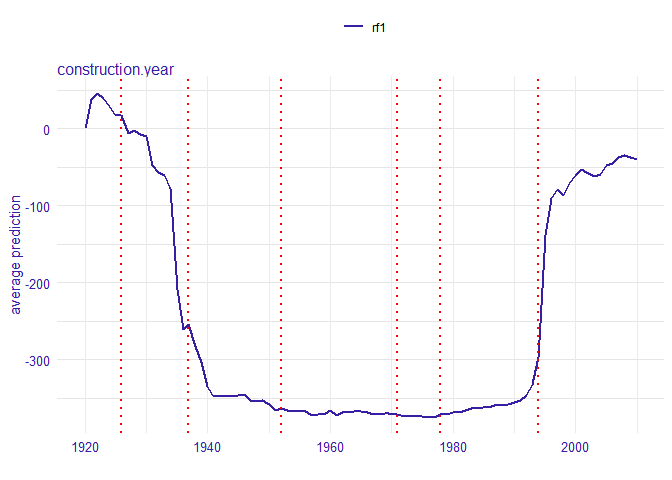
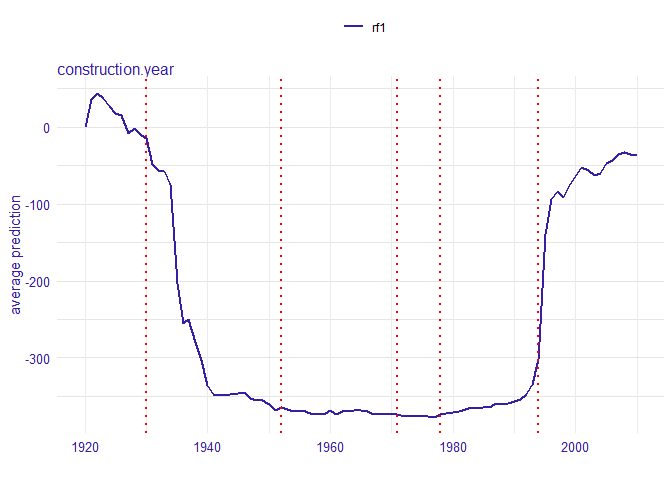
adding examples

diff --git a/README.md b/README.md
@@ -67,7 +67,7 @@ Creating a safe\_extractor
 Now, we create a `safe_extractor` object using `SAFE` package and our surrogate model. Setting the argument `verbose=FALSE` stops progress bar from printing.
 
 ``` r
-safe_extractor <- safe_extraction(explainer_rf1, collapse = "_", verbose = FALSE)
+safe_extractor <- safe_extraction(explainer_rf1, verbose = FALSE)
 ```
 
 Now, let's print summary for the new object we have just created.
@@ -75,19 +75,18 @@ Now, let's print summary for the new object we have just created.
 ``` r
 print(safe_extractor)
 #> Variable 'construction.year' - selected intervals:
-#>  (-Inf, 1926]
-#>      (1926, 1936.82]
-#>      (1936.82, 1952]
+#>  (-Inf, 1930]
+#>      (1930, 1952]
 #>      (1952, 1971]
 #>      (1971, 1978]
 #>      (1978, 1994]
 #>      (1994, Inf)
 #> Variable 'surface' - selected intervals:
 #>  (-Inf, 28]
-#>      (28, 44]
-#>      (44, 72]
-#>      (72, 101]
-#>      (101, 129]
+#>      (28, 40]
+#>      (40, 72]
+#>      (72, 98]
+#>      (98, 129]
 #>      (129, Inf)
 #> Variable 'floor' - selected intervals:
 #>  (-Inf, 4]
@@ -131,11 +130,11 @@ data1 <- safely_transform_data(safe_extractor, apartmentsTest[3001:6000,], verbo
 | district    |  m2.price|  construction.year|  surface|  floor|  no.rooms| construction.year\_new | surface\_new | floor\_new | no.rooms\_new | district\_new                                |
 |:------------|---------:|------------------:|--------:|------:|---------:|:-----------------------|:-------------|:-----------|:--------------|:---------------------------------------------|
 | Bielany     |      3542|               1979|       21|      6|         1| (1978, 1994\]          | (-Inf, 28\]  | (4, Inf)   | (-Inf, 3\]    | Bemowo\_Bielany\_Praga\_Ursus\_Ursynow\_Wola |
-| Srodmiescie |      5631|               1997|      107|      2|         4| (1994, Inf)            | (101, 129\]  | (-Inf, 4\] | (3, Inf)      | Srodmiescie                                  |
-| Bielany     |      2989|               1994|       41|      9|         2| (1978, 1994\]          | (28, 44\]    | (4, Inf)   | (-Inf, 3\]    | Bemowo\_Bielany\_Praga\_Ursus\_Ursynow\_Wola |
+| Srodmiescie |      5631|               1997|      107|      2|         4| (1994, Inf)            | (98, 129\]   | (-Inf, 4\] | (3, Inf)      | Srodmiescie                                  |
+| Bielany     |      2989|               1994|       41|      9|         2| (1978, 1994\]          | (40, 72\]    | (4, Inf)   | (-Inf, 3\]    | Bemowo\_Bielany\_Praga\_Ursus\_Ursynow\_Wola |
 | Ursynow     |      3822|               1968|       28|      2|         2| (1952, 1971\]          | (-Inf, 28\]  | (-Inf, 4\] | (-Inf, 3\]    | Bemowo\_Bielany\_Praga\_Ursus\_Ursynow\_Wola |
 | Ursynow     |      2337|               1971|      146|      3|         6| (1952, 1971\]          | (129, Inf)   | (-Inf, 4\] | (3, Inf)      | Bemowo\_Bielany\_Praga\_Ursus\_Ursynow\_Wola |
-| Ochota      |      3381|               1956|       97|      8|         3| (1952, 1971\]          | (72, 101\]   | (4, Inf)   | (-Inf, 3\]    | Mokotow\_Ochota\_Zoliborz                    |
+| Ochota      |      3381|               1956|       97|      8|         3| (1952, 1971\]          | (72, 98\]    | (4, Inf)   | (-Inf, 3\]    | Mokotow\_Ochota\_Zoliborz                    |
 
 We can also perform feature selection if we wish. For each original feature it keeps exactly one of their forms - original one or transformed one.
 
